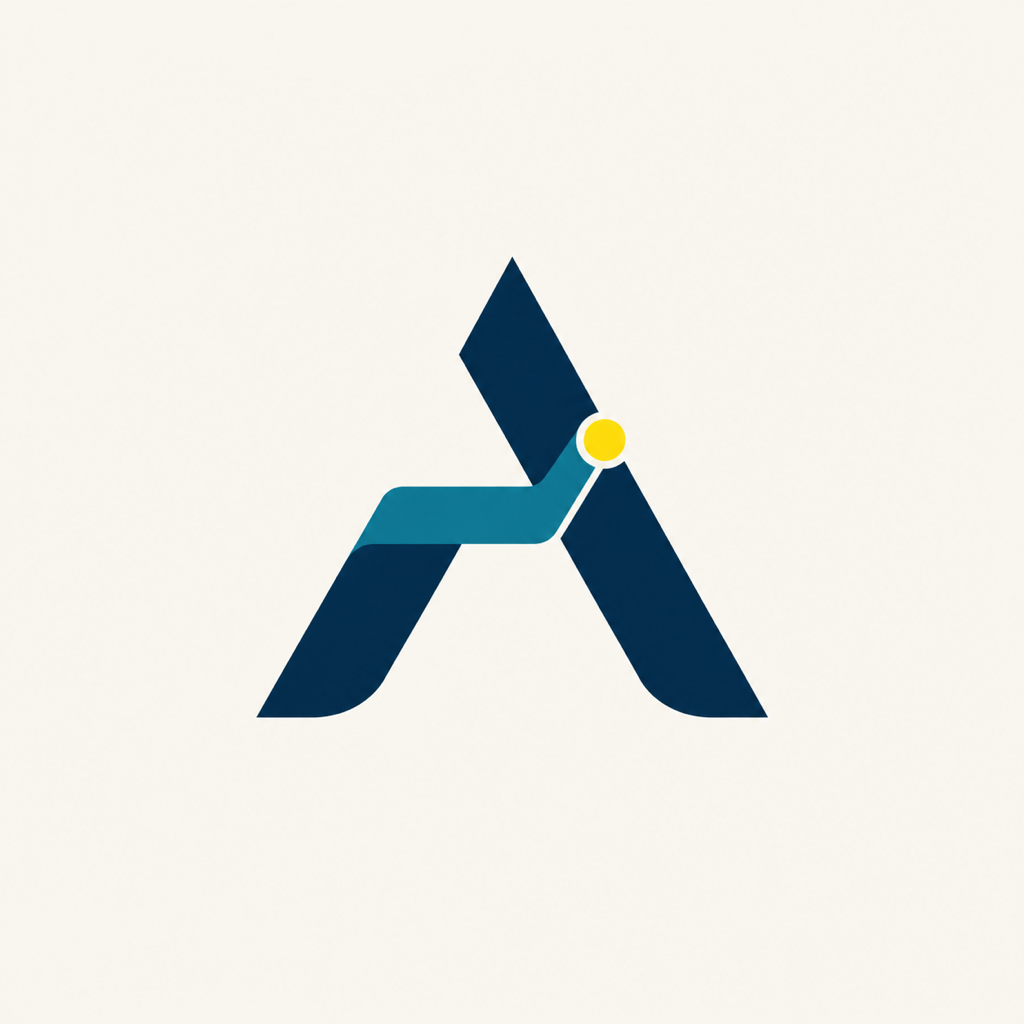
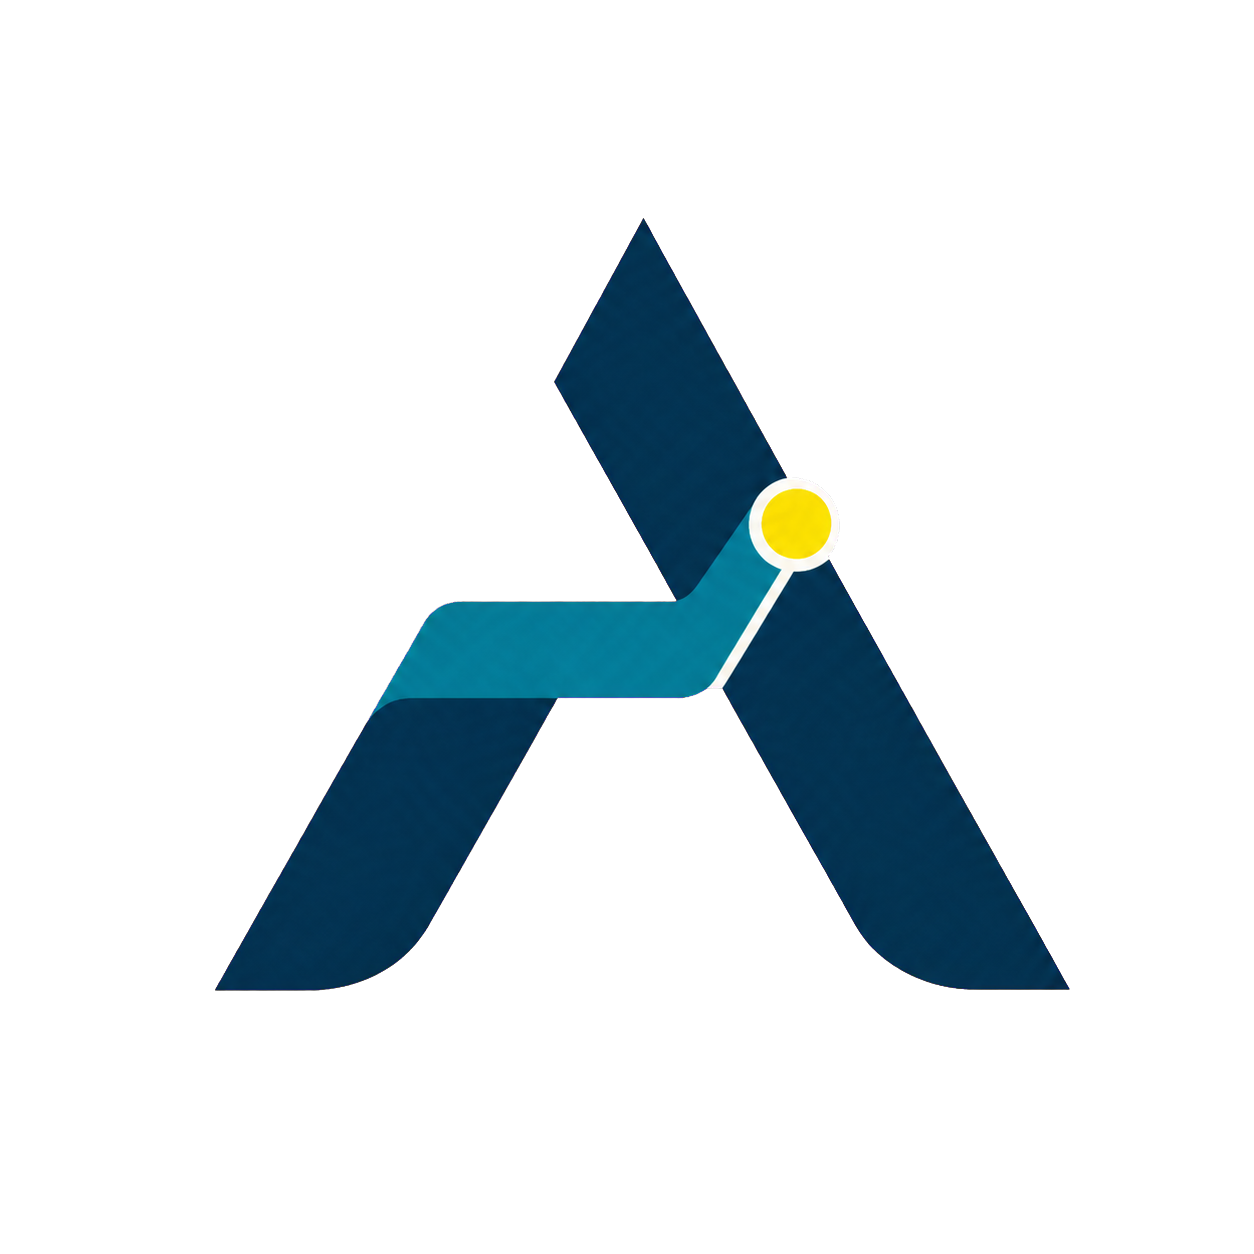
fix: make brand mark transparent

Changed region(s): [[0.1562, 0.1562, 0.8438, 0.8125], [0.5938, 0.5938, 0.6562, 0.6875]]

diff --git a/src/components/Footer.tsx b/src/components/Footer.tsx
@@ -24,17 +24,15 @@ const Footer = () => (
             className="group inline-flex items-center gap-3 text-3xl font-bold tracking-[-0.04em]"
             aria-label="Anrotex home"
           >
-            <span className="flex h-12 w-12 shrink-0 items-center justify-center overflow-hidden rounded-2xl bg-brand-off-white shadow-sm">
-              <img
-                src="/Anrotex.png"
-                alt=""
-                width="48"
-                height="48"
-                loading="lazy"
-                className="h-full w-full scale-[1.35] object-cover"
-                aria-hidden="true"
-              />
-            </span>
+            <img
+              src="/Anrotex.png"
+              alt=""
+              width="48"
+              height="48"
+              loading="lazy"
+              className="h-12 w-12 shrink-0 object-contain"
+              aria-hidden="true"
+            />
             <span className="inline-flex items-center gap-2">
               Anrotex
               <span className="h-2.5 w-2.5 rounded-full bg-brand-yellow transition-transform group-hover:scale-125" />

diff --git a/src/components/Navbar.tsx b/src/components/Navbar.tsx
@@ -47,16 +47,14 @@ const Navbar = () => {
           className="group inline-flex items-center gap-2.5 font-heading text-2xl font-bold tracking-[-0.04em] text-brand-navy"
           aria-label="Anrotex home"
         >
-          <span className="flex h-10 w-10 shrink-0 items-center justify-center overflow-hidden rounded-xl border border-brand-navy/10 bg-brand-off-white shadow-sm">
-            <img
-              src="/Anrotex.png"
-              alt=""
-              width="40"
-              height="40"
-              className="h-full w-full scale-[1.35] object-cover"
-              aria-hidden="true"
-            />
-          </span>
+          <img
+            src="/Anrotex.png"
+            alt=""
+            width="40"
+            height="40"
+            className="h-10 w-10 shrink-0 object-contain"
+            aria-hidden="true"
+          />
           <span className="inline-flex items-center gap-2">
             Anrotex
             <span className="h-2.5 w-2.5 rounded-full bg-brand-yellow transition-transform group-hover:scale-125" />

diff --git a/src/lib/seo.ts b/src/lib/seo.ts
@@ -15,8 +15,8 @@ export const organizationSchema: JsonLd = {
     "@type": "ImageObject",
     url: `${SITE_URL}/Anrotex.png`,
     contentUrl: `${SITE_URL}/Anrotex.png`,
-    width: 1024,
-    height: 1024,
+    width: 1254,
+    height: 1254,
   },
   identifier: {
     "@type": "PropertyValue",
